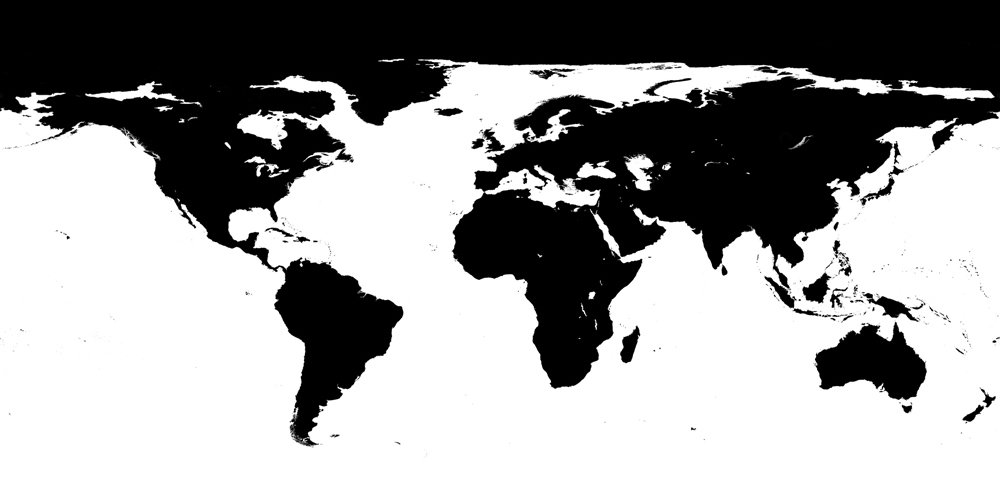
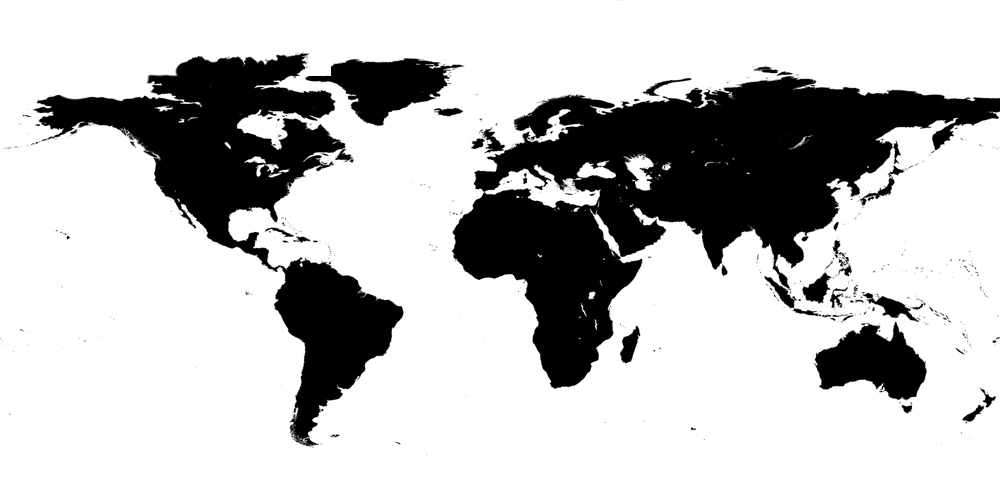
Save before crash

Changed region(s): [[0.0, 0.0, 1.0, 0.24]]

diff --git a/src/js/objects/Map.js b/src/js/objects/Map.js
@@ -9,49 +9,81 @@ var Map = (function(){
         
         var geometry = new THREE.PlaneGeometry(width, height, width / resolution, height / resolution);
         var material = new THREE.MeshBasicMaterial({color: 0x555555, wireframe: true});
+        // MeshFaceMatrerial
         
         this.mesh = new THREE.Mesh(geometry, material);
         this.mesh.rotation.x = -Math.PI / 3;
         
-        var canvas = document.createElement('canvas');
-        var context = canvas.getContext('2d');
+        var bumpMapDeferred = new $.Deferred();
+        var specularMapDeferred = new $.Deferred();
         
         var textureLoader = new THREE.TextureLoader();
         
-        canvas.width = width;
-        canvas.height = height;
-        
-        var scope = this;
-        
-        textureLoader.load('public/img/bump_map.jpg', function (res) {
-            context.drawImage(res.image, 0, 0, width, height);
+        textureLoader.load('public/img/bump_map.jpg', function (data) {
+            var canvas = document.createElement('canvas');
+            var context = canvas.getContext('2d');
             
+            canvas.width = width;
+            canvas.height = height;
+            
+            context.drawImage(data.image, 0, 0, width, height);
+            
+            bumpMapDeferred.resolve(context);
+        });
+        textureLoader.load('public/img/specular_map.jpg', function (data) {
+            var canvas = document.createElement('canvas');
+            var context = canvas.getContext('2d');
+            
+            canvas.width = width;
+            canvas.height = height;
+            
+            context.drawImage(data.image, 0, 0, width, height);
+            
+            specularMapDeferred.resolve(context);
+        });
+        
+        $.when(bumpMapDeferred, specularMapDeferred).done(function (bumpMap, specularMap) {
             var column = 0;
             var line = 0;
             
             for (var i=0; i < this.mesh.geometry.vertices.length; i++) {
-                data = context.getImageData(column * resolution, line * resolution, 1, 1).data;
+                vertice = this.mesh.geometry.vertices[i];
+                
+                data = bumpMap.getImageData(column * resolution, line * resolution, 1, 1).data;
                 color = new THREE.Color(data[0]/255, data[1]/255, data[2]/255);
                 color = color.getHSL();
-                vertice = scope.mesh.geometry.vertices[i];
                 
-                if (Math.abs(vertice.x) !== width/2 && Math.abs(vertice.y) !== height/2) {
+                altitude = color.l;
+                
+                data = specularMap.getImageData(column * resolution, line * resolution, 1, 1).data;
+                color = new THREE.Color(data[0]/255, data[1]/255, data[2]/255);
+                color = color.getHSL();
+                
+                specular = color.l;
+                
+                if (specular < 0.5 && Math.abs(vertice.x) !== width/2 && Math.abs(vertice.y) !== height/2) {
+                    vertice.z += altitude * 50;
                     vertice.x += Math.random() * 10;
                     vertice.y += Math.random() * 10;
-                    vertice.z += color.l * 50;
+                } else {
+                    vertice.z = 0;
                 }
                 
-                column++;
-                if (column ===  (width / resolution) + 1) {
+                if (++column === (width / resolution) + 1) {
                     column = 0;
                     line++;
                 }
             }
             
-            scope.mesh.geometry.verticesNeedUpdate = true;
+            this.mesh.geometry.verticesNeedUpdate = true;
+            
+            this.mesh.geometry.normalsNeedUpdate = true;
+            for (var i=0; i < this.mesh.geometry.faces.length; i++) {
+                console.log(this.mesh.geometry.faces[i]);
+            }
+            this.add(this.mesh);
+            
         }.bind(this));
-        
-        this.add(this.mesh);
     }
 
     Map.prototype = new THREE.Object3D;

diff --git a/index.html b/index.html
@@ -9,6 +9,7 @@
     <div class="three"></div>
     <script src="assets/lib/dat-gui/build/dat.gui.min.js"></script>
 	<script src="assets/lib/jquery/dist/jquery.min.js"></script>
+	<script src="assets/lib/nprogress/nprogress.js"></script>
     <script src="assets/lib/greensock/src/minified/TweenMax.min.js"></script>
 	<script src="assets/lib/threejs/build/three.min.js"></script>
 

diff --git a/styles/styles.css b/styles/styles.css
@@ -5,3 +5,18 @@ body, html {
     padding: 0;
     overflow: hidden;
 }
+
+#nprogress {
+  pointer-events: none;
+}
+#nprogress .bar {
+  background-color: #ffffff;
+
+  position: fixed;
+  z-index: 1031;
+  top: 0;
+  left: 0;
+
+  width: 100%;
+  height: 10px;
+}

diff --git a/src/js/main.js b/src/js/main.js
@@ -9,7 +9,7 @@ function init(){
     gui.close();
 
     $(window).on('resize', resizeHandler);
-
+    
     animate();
 }
 
